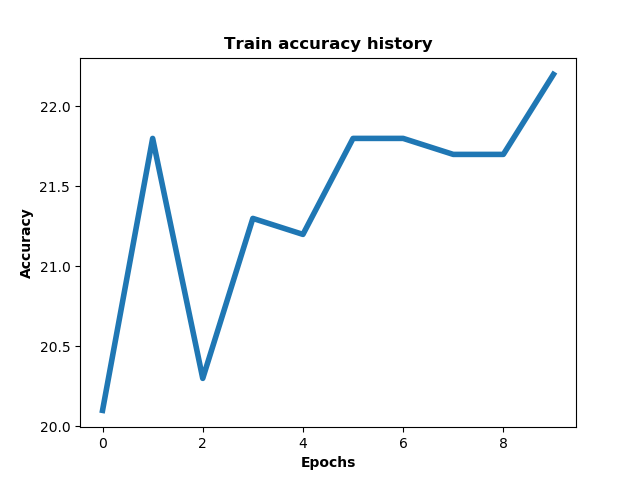
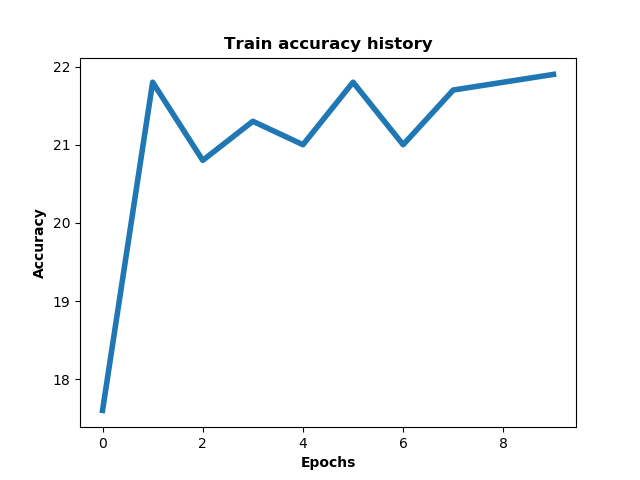
Epochs in main

diff --git a/plots.py b/plots.py
@@ -8,7 +8,7 @@ import matplotlib.pyplot as plt
 import seaborn as sns
 from sklearn.metrics import confusion_matrix
 
-def printPlots(classes, dataset_dir, epochs, train_loss, train_acc, test_loss, test_acc, class_acc, predict, true):
+def printPlots(classes, dataset_dir, epochs, train_loss, train_acc, test_loss, test_acc, predict, true):
 
     train_labels = importMeta(dataset_dir / 'train')
     train_classes = list(0. for i in range(10))
@@ -20,21 +20,21 @@ def printPlots(classes, dataset_dir, epochs, train_loss, train_acc, test_loss, t
     for l in test_labels:
         test_classes[l] += 1
 
-    datasetDistribution(train_classes, classes, 'Trainset')
-    datasetDistribution(test_classes, classes, 'Testset')
+    #datasetDistribution(train_classes, classes, 'Trainset')
+    #datasetDistribution(test_classes, classes, 'Testset')
     datasetComparison(classes, train_classes, test_classes)
 
-    lossHistory('Train', train_loss)
-    accuracyHistory('Train', train_acc)
+    #lossHistory('Train', train_loss)
+    #accuracyHistory('Train', train_acc)
 
-    lossHistory('Test', test_loss)
-    accuracyHistory('Test', test_acc)
+    #lossHistory('Test', test_loss)
+    #accuracyHistory('Test', test_acc)
 
     #netAccuracy(classes, class_acc)
     lossComparison(train_loss, test_loss, epochs)
     accComparison(train_acc, test_acc, epochs)
 
-    conf_matrix1(true, predict, classes, list(i for i in range(10)), ymap=None, figsize=(10, 10))
+    conf_matrix1(true, predict, classes, list(i for i in range(10)), figsize=(10, 10))
     conf_matrix2(true, predict, classes, list(i for i in range(10)))
 
 def datasetDistribution(labels, classes, title):
@@ -79,8 +79,8 @@ def lossHistory(name, losses):
     plt.show()
 
 def lossComparison(train_loss, test_loss, epochs):
-    trainig = mpatches.Patch(color='orange', label='Training')
-    testing = mpatches.Patch(color='royalblue', label='Testing')
+    trainig = mpatches.Patch(color='royalblue', label='Training')
+    testing = mpatches.Patch(color='orange', label='Testing')
     plt.plot(np.arange(epochs), train_loss, np.arange(epochs), test_loss, linewidth=4)
     plt.title('Loss comparison', fontweight='bold')
     plt.xlabel('Epochs', fontweight='bold')
@@ -90,8 +90,8 @@ def lossComparison(train_loss, test_loss, epochs):
     plt.show()
 
 def accComparison(train_acc, test_acc, epochs):
-    trainig = mpatches.Patch(color='orange', label='Training')
-    testing = mpatches.Patch(color='royalblue', label='Testing')
+    trainig = mpatches.Patch(color='royalblue', label='Training')
+    testing = mpatches.Patch(color='orange', label='Testing')
     plt.plot(np.arange(epochs), train_acc, np.arange(epochs), test_acc, linewidth=4)
     plt.title('Accuracy comparison', fontweight='bold')
     plt.xlabel('Epochs', fontweight='bold')
@@ -143,10 +143,9 @@ def conf_matrix1(y_true, y_pred, classes, labels, ymap=None, figsize=(10,10)):
     cm.index.name = 'Actual'
     cm.columns.name = 'Predicted'
     fig, ax = plt.subplots(figsize=figsize)
-    sns.heatmap(cm, annot=annot, fmt='', ax=ax)
+    sns.heatmap(cm, annot=annot, fmt='', ax=ax, cmap="Blues")
     plt.savefig('matrix.png')
     plt.show()
-
 
 def conf_matrix2(y_true, y_pred, classes, labels, cmap=plt.cm.Blues):
 
@@ -159,7 +158,7 @@ def conf_matrix2(y_true, y_pred, classes, labels, cmap=plt.cm.Blues):
 
     tick_marks = np.arange(len(classes))
     plt.xticks(tick_marks, rotation=45, ha='right')
-    plt.yticks(np.arange(len(classes)+1))
+    plt.yticks(np.arange(len(classes)+2))
     ax = plt.gca()
 
     ax.set_xticklabels(classes)
@@ -177,3 +176,4 @@ def conf_matrix2(y_true, y_pred, classes, labels, cmap=plt.cm.Blues):
     plt.xlabel('Predicted label')
 
     plt.show()
+

diff --git a/testing.py b/testing.py
@@ -3,69 +3,56 @@ import torch
 import torch.nn as nn
 from tqdm import tqdm
 import numpy as np
-import torch.optim as optim
 
 
+def test(batch_size, testloader, classes, net, device):
 
-def test(epochs, testloader, classes, batch_size, net, device):
-
-    total_losses = []
-    total_accs = []
-    total_items = list(1. for i in range(10))
-    total_corrects = list(1. for i in range(10))
+    # total_losses = []
+    # total_accs = []
+    # total_items = list(1. for i in range(10))
+    # total_corrects = list(1. for i in range(10))
     true = []
     predict = []
 
     criterion = nn.CrossEntropyLoss()
-    optimizer = optim.SGD(net.parameters(), lr=0.001, momentum=0.9)
 
-    for epoch in range(epochs):
-        epoch_items = list(0. for i in range(10))
-        epoch_corrects = list(0. for i in range(10))
-        epoch_losses = list(0. for i in range(10))
+    epoch_items = list(0. for i in range(10))
+    epoch_corrects = list(0. for i in range(10))
+    epoch_losses = list(0. for i in range(10))
 
+    for i, batch in tqdm(enumerate(testloader), total=len(testloader)):
 
-        for i, batch in tqdm(enumerate(testloader), total=len(testloader)):
+        images = batch['image']
+        images = images.float().to(device)
+        labels = batch['idx'].to(device)
 
-            images = batch['image']
-            images = images.float().to(device)
-            labels = batch['idx'].to(device)
+        outputs = net(images)
+        _, prediction = torch.max(outputs.data, 1)
 
-            outputs = net(images)
-            _, prediction = torch.max(outputs.data, 1)
+        for item in range(batch_size):
+            label = labels[item]
+            epoch_items[label] += 1
 
-            for item in range(batch_size):
-                label = labels[item]
-                epoch_items[label] += 1
-                total_items[label] += 1
-                predicted = prediction.data[item]
-                predict.append(predicted.item())
-                true.append(label.item())
-                if (predicted == label):
-                    epoch_corrects[label] += 1
-                    total_corrects[label] += 1
+            predicted = prediction.data[item]
+            predict.append(predicted.item())
+            true.append(label.item())
 
-            optimizer.zero_grad()
+            if predicted == label:
+                epoch_corrects[label] += 1
+
             loss = criterion(outputs, labels)
-            loss.backward()
-            optimizer.step()
-
             epoch_losses.append(loss.item())
 
         epoch_avg_loss = np.asarray(epoch_losses).mean()
         epoch_acc = 100 * sum(epoch_corrects) / sum(epoch_items)
 
-        total_losses.append(epoch_avg_loss)
-        total_accs.append(epoch_acc)
 
-        print(f'Testing epoch {epoch} statistics: [AVG LOSS: {epoch_avg_loss:.4f}, ACC: {epoch_acc:.2f}%]')
+    #
+    #
+    # print(f"Class accuracy: ")
+    # class_accuracy = []
+    # for i in range(10):
+    #     class_accuracy.append(100 * total_corrects[i] / (total_items[i]+1))
+    #     print(f"[{classes[i]}: {class_accuracy[i]:.2f}%]")
 
-    print(f"Accuracy of the network on the test images: {100 * sum(total_corrects) / sum(total_items)}%")
-
-    print(f"Class accuracy: ")
-    class_accuracy = []
-    for i in range(10):
-        class_accuracy.append(100 * total_corrects[i] / (total_items[i]+1))
-        print(f"[{classes[i]}: {class_accuracy[i]:.2f}%]")
-
-    return total_losses, total_accs, class_accuracy, total_corrects, predict, true
+    return epoch_avg_loss, epoch_acc, true, predict

diff --git a/training.py b/training.py
@@ -5,45 +5,38 @@ import torch.optim as optim
 import numpy as np
 import torch
 
-def train(epochs, batch_size,  trainloader, net, device):
-
-    total_losses = []
-    total_accs = []
+def train(batch_size,  trainloader, net, device):
 
     criterion = nn.CrossEntropyLoss()
     optimizer = optim.SGD(net.parameters(), lr=0.001, momentum=0.9)
 
-    for epoch in range(epochs):
-        epoch_items = 0
-        epoch_corrects = 0
-        epoch_losses = []
+    epoch_items = 0
+    epoch_corrects = 0
+    epoch_losses = []
 
-        for batch in tqdm(trainloader, total=len(trainloader)):
+    for batch in tqdm(trainloader, total=len(trainloader)):
 
-            inputs = batch['image']
-            inputs = inputs.float().to(device)
-            labels = batch['idx'].to(device)
+        inputs = batch['image']
+        inputs = inputs.float().to(device)
+        labels = batch['idx'].to(device)
 
-            outputs = net(inputs)
-            _, predicted = torch.max(outputs.data, 1)
+        outputs = net(inputs)
+        _, predicted = torch.max(outputs.data, 1)
 
-            for item in range(batch_size):
-                label = labels[item]
-                epoch_items += 1
-                if (predicted.data[item] == label):
-                    epoch_corrects += 1
+        for item in range(batch_size):
+            label = labels[item]
+            epoch_items += 1
+            if (predicted.data[item] == label):
+                epoch_corrects += 1
 
-            optimizer.zero_grad()
-            loss = criterion(outputs, labels)
-            loss.backward()
-            optimizer.step()
+        optimizer.zero_grad()
+        loss = criterion(outputs, labels)
+        loss.backward()
+        optimizer.step()
 
-            epoch_losses.append(loss.item())
+        epoch_losses.append(loss.item())
 
         epoch_avg_loss = np.asarray(epoch_losses).mean()
         epoch_acc = 100 * epoch_corrects / epoch_items
-        total_losses.append(epoch_avg_loss)
-        total_accs.append(epoch_acc)
-        print(f'Training epoch {epoch} statistics: [AVG LOSS: {epoch_avg_loss:.4f}, ACC: {epoch_acc:.2f}%]')
 
-    return total_losses, total_accs
+    return epoch_avg_loss, epoch_acc

diff --git a/main.py b/main.py
@@ -37,21 +37,36 @@ def main(args):
     # -- CONV NET -- #
     net = CNN().to(args.device)
 
-    # -- TRAINING -- #
-    print(f"STARTING TRAINING... ({args.epochs} epochs)")
-    train_loss, train_acc = train(args.epochs, args.batch_size, trainloader, net, args.device)
-    print("TRAINING FINISHED")
-    print(f"Loss history: {train_loss}")
-    print(f"Accuracy history: {train_acc}")
+    train_losses = []
+    train_accs = []
+    test_losses = []
+    test_accs = []
 
-    # -- TESTING -- #
-    print(f"STARTING TESTING... ({args.epochs} epochs)")
-    test_loss, test_acc, class_acc, true, predict, true = test(args.epochs, testloader, classes, args.batch_size, net, args.device)
-    print("TESTING FINISHED")
-    print(f"Loss history: {test_loss}")
-    print(f"Accuracy history: {test_acc}")
+    true_list = []
+    predict_list = []
 
-    plots.printPlots(classes, args.dataset_dir, args.epochs, train_loss, train_acc, test_loss, test_acc, class_acc, predict, true)
+    for epoch in range(args.epochs):
+
+        # taining
+        train_loss, train_acc = train(args.batch_size, trainloader, net, args.device)
+        train_losses.append(train_loss)
+        train_accs.append(train_acc)
+
+        #test
+        test_loss, test_acc, true, predict = test(args.batch_size, testloader, classes, net, args.device)
+        test_losses.append(test_loss)
+        test_accs.append(test_acc)
+        true_list += true
+        predict_list += predict
+
+        print(f"EPOCH {epoch}: [TRAINING loss: {train_loss:.5f} acc: {train_acc:.2f}%]",
+                             f"[TESTING loss: {test_loss:.5f} acc: {test_acc:.2f} %]")
+
+
+    print(f"TRAINING AND TESTING FINISCHED")
+    print(F"TRAIN LOSS: {train_losses} ACC: {train_acc}")
+    print(F"TEST LOSS: {test_losses} ACC: {test_losses}")
+    plots.printPlots(classes, args.dataset_dir, args.epochs, train_losses, train_accs, test_losses, test_accs, predict_list, true_list)
 
 if __name__ == '__main__':
 
